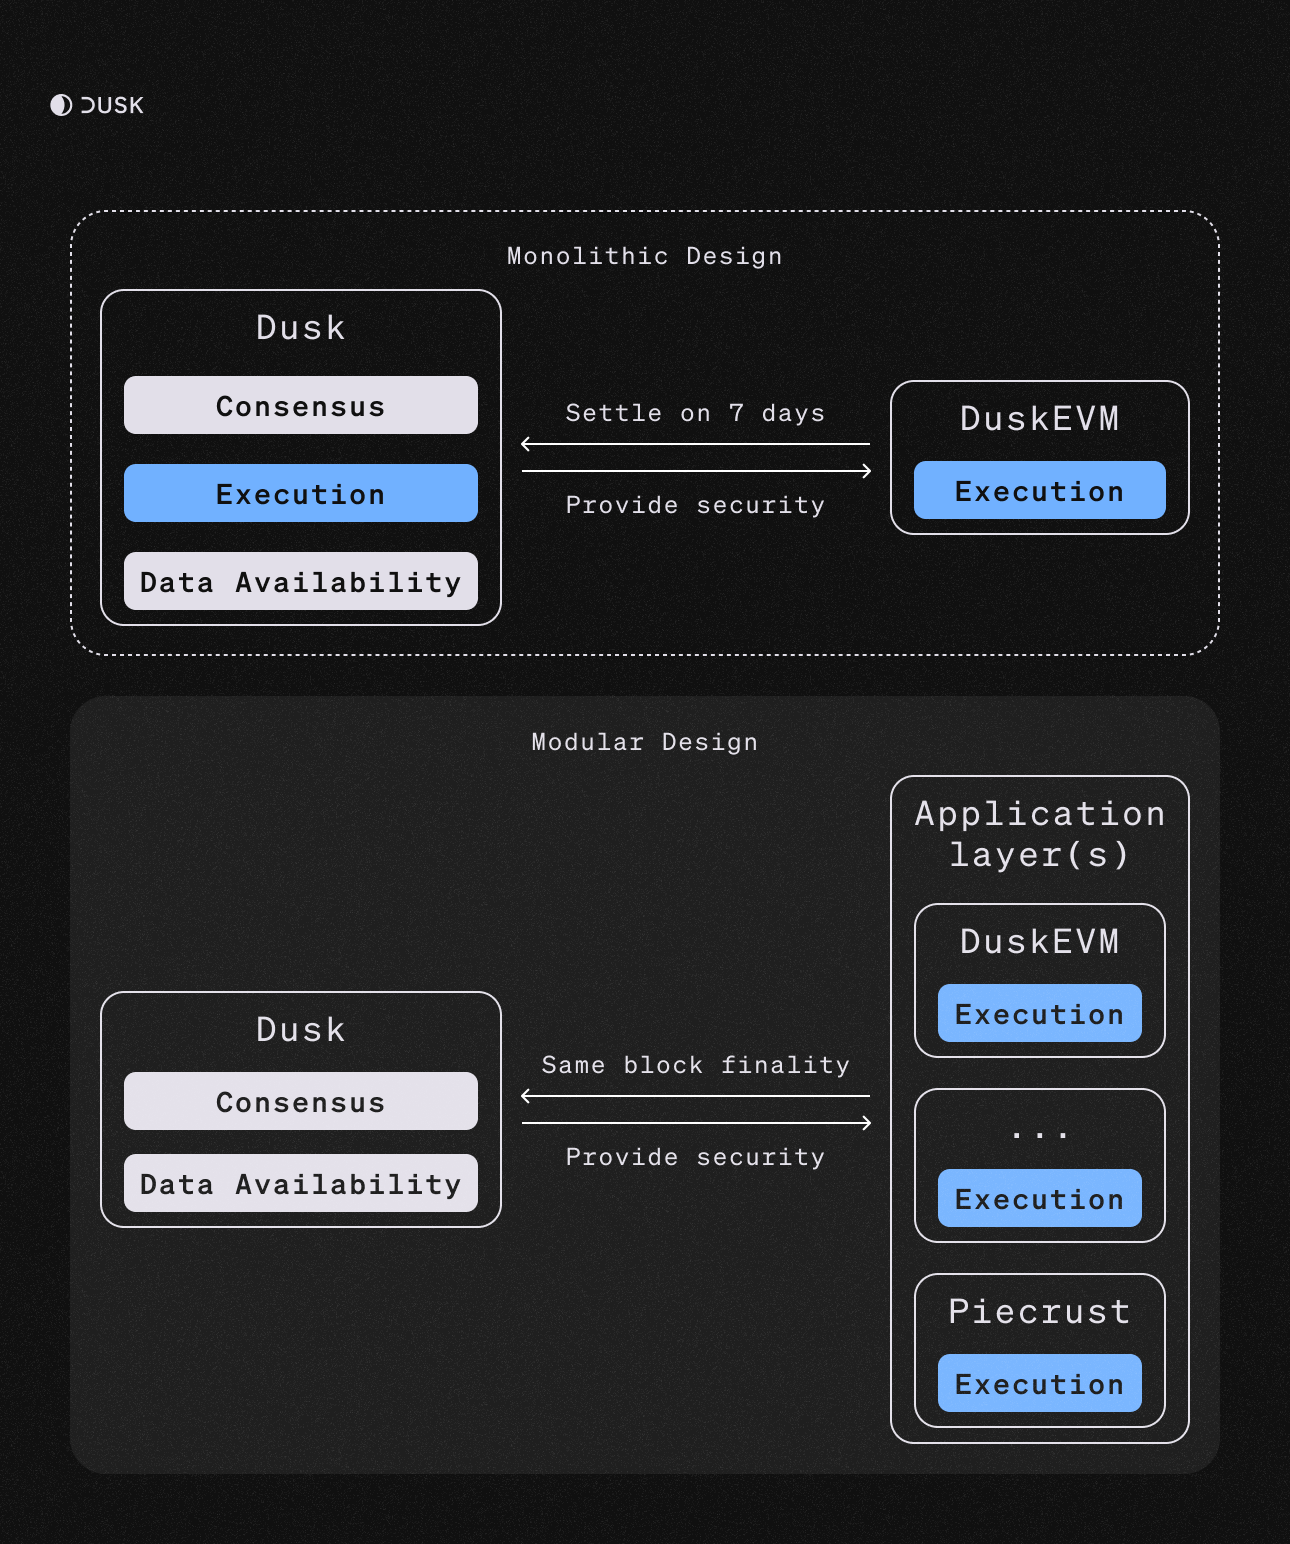
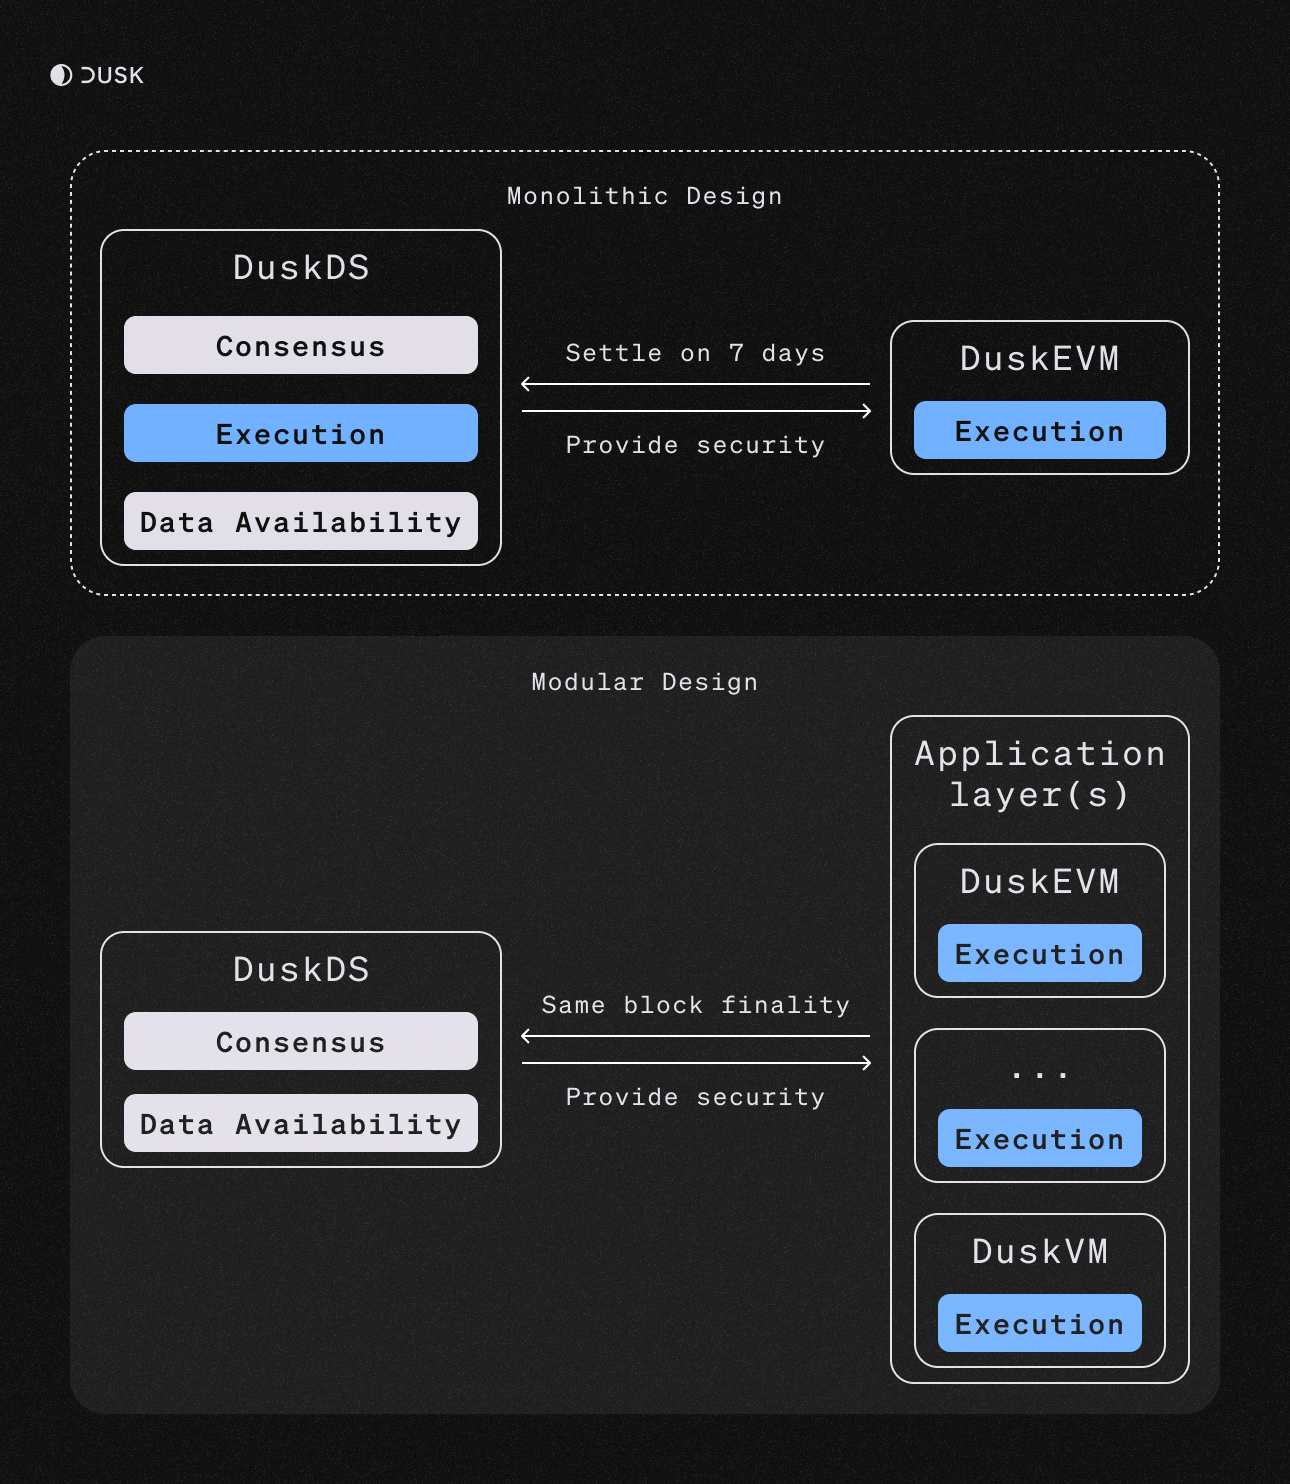
re-organizing content

diff --git a/src/sidebars/defaultSidebar.js b/src/sidebars/defaultSidebar.js
@@ -7,6 +7,7 @@ const defaultSidebar = [
       { label: "Native Issuance", link: "learn/tokenization-comparison" },
       { label: "Core Values", link: "learn/core-values" },
       { label: "Core Components", link: "learn/core-components" },
+      { label: "Cryptography", link: "learn/cryptography" },
       { label: "Tokenomics", link: "learn/tokenomics" },
       { label: "Stake Abstraction", link: "learn/hyperstaking" },
       { label: "Get involved & Community", link: "learn/community" },

diff --git a/src/content/docs/learn/core-components.md b/src/content/docs/learn/core-components.md
@@ -3,11 +3,17 @@ title: Core Components
 description: Introduction to the core components that power Dusk.
 ---
 
-Dusk is built on a foundation of custom-developed tools and components, specifically designed to meet [institutional standards](/learn/tokenization-comparison#meeting-institutional-standards) for privacy, regulatory compliance, and secure interactions with regulated assets. These components enable Dusk to support not only the tokenization of real-world assets (RWAs) but also [native issuance](/learn/tokenization-comparison#native-issuance).
+Dusk is built with a modular architecture, leveraging the  tools and components, specifically designed to meet [institutional standards](/learn/tokenization-comparison#meeting-institutional-standards) for privacy, regulatory compliance, and secure interactions with regulated assets. These components enable Dusk to support not only the tokenization of real-world assets (RWAs) but also [native issuance](/learn/tokenization-comparison#native-issuance).
 
 What sets Dusk apart from other blockchains is its tailor-made architecture, driven by continuous cryptographic research to ensure compliance, privacy, and robust network security, providing a reliable foundation to be a **Decentralized Market Infrastructure** (DeMI).
 
-## DuskDS: Settlement and Data Availability
+## DuskDS
+
+DuskDS is the settlement, consensus, and data availability layer at the foundation of the Dusk architecture. It provides finality, security, and native bridging for all execution environments built on top, including DuskEVM and DuskVM. By modularizing the protocol stack, DuskDS is built to meet institutional demands for compliance, privacy, and performance.
+
+DuskDS includes Rusk (the node implementation) which is powered by Succinct Attestation (PoS-based consensus), Kadcast (P2P networking layer), and the Transfer and Stake Genesis contracts. Together, these elements form a secure, compliant, and composable environment for regulated financial applications
+
+Through its dual transaction models (Phoenix and Moonlight), it provides a secure settlement and data availability layer for compliant execution environments (such as DuskEVM and DuskVM). For seamless, trustless transfers between execution layers,  DuskDS exposes a native bridge.
 
 ### Rusk
 
@@ -15,7 +21,7 @@ What sets Dusk apart from other blockchains is its tailor-made architecture, dri
 
 <a href="https://github.com/dusk-network/rusk/" target="_blank">Deep dive into Rusk implementation</a>
 
-### Consensus: Succinct Attestation
+### Succinct Attestation
 
 [Succinct Attestation](/learn/deep-dive/succinct-attestation) (SA) is the unique **proof-of-stake** (PoS) consensus algorithm at the core of Dusk. It uses a committee-based approach where stakers, called provisioners, participate in generating, validating and ratifying blocks. Provisioners are randomly selected based on their stake.
 
@@ -28,17 +34,7 @@ Blocks are added to the blockchain if they receive enough votes. The Determinist
 
 [Deep dive into Succinct Attestation](/learn/deep-dive/succinct-attestation)
 
-## Execution Layers
-
-### Dusk VM
-
-[Dusk VM](/learn/deep-dive/dusk-vm) is a highly optimized <a href="https://en.wikipedia.org/wiki/Virtual_machine#Process_virtual_machines" target="_blank">virtual machine</a> built around Wasmtime, a WASM runtime. It is a ZK-friendly virtual machine, enabling the development and execution of privacy-focused smart contracts and applications. 
-
-Dusk VM is fundamentally different from many blockchain VMs in that it not only executes WASM and is able to natively support ZK operations like SNARK verifications, but it also has a completely different way in which it handles memory.
-
-[Deep dive into Dusk VM](/learn/deep-dive/dusk-vm)
-
-## Network Layer: Kadcast
+### Network Layer: Kadcast
 
 <a href="https://github.com/dusk-network/kadcast/blob/main/README.md" target="_blank">Kadcast</a> is an innovative peer-to-peer protocol used by Dusk to optimize message exchanges between nodes. Unlike the traditional Gossip protocols used by many blockchain protocols, which broadcasts messages to a random set of nodes, Kadcast uses a structured overlay to direct message flow. This drastically reduces network bandwidth and makes latency much more predictable, and at the same time lower compared to Gossip protocols.
 
@@ -66,34 +62,33 @@ The [Transfer Contract](/learn/deep-dive/transaction_models/transactions) is res
 
 Transactions in DuskDS are managed by the Transfer Contract. The Transfer Contract oversees the handling of both transparent and obfuscated transactions within the network.
 
-The Transfer Contract supports **both** a [UTXO](/learn/deep-dive/transaction_models/tx-models#utxos) and [account-based](/learn/deep-dive/transaction_models/tx-models#account-model) model through [Phoenix](/learn/deep-dive/transaction_models/tx-models#phoenix) and [Moonlight](/learn/deep-dive/transaction_models/tx-models) to handle transfers of the native currency, gas payments, and serve as a contract execution entry point.
+The Transfer Contract supports both a [UTXO](/learn/deep-dive/transaction_models/tx-models#utxos) and [account-based](/learn/deep-dive/transaction_models/tx-models#account-model) model through [Phoenix](/learn/deep-dive/transaction_models/tx-models#phoenix) and [Moonlight](/learn/deep-dive/transaction_models/tx-models) to handle transfers of the native currency, gas payments, and serve as a contract execution entry point.
 
 [Deep dive into the Transfer Contract](/learn/deep-dive/transaction_models/transactions)
 
-## Application Layer: DuskVM and Dusk EVM execution environments
+## Execution environments
 
-### Dusk VM
+The application layer of Dusk is designed to support multiple specialized execution environments, each optimized for distinct use cases (including FHE for confidential transactions to full EVM equivalency). These environments sit atop DuskDS and inherit its secure, compliant settlement guarantees. By separating execution from settlement, Dusk enables high-performance computation without compromising on regulatory alignment or composability.
 
+### Dusk VM
 [Dusk VM](/learn/deep-dive/dusk-vm) is a highly optimized <a href="https://en.wikipedia.org/wiki/Virtual_machine#Process_virtual_machines" target="_blank">virtual machine</a> built around Wasmtime, a WASM runtime. It is a ZK-friendly virtual machine, enabling the development and execution of privacy-focused smart contracts and applications. 
 
 Dusk VM is fundamentally different from many blockchain VMs in that it not only executes WASM and is able to natively support ZK operations like SNARK verifications, but it also has a completely different way in which it handles memory.
 
 [Deep dive into Dusk VM](/learn/deep-dive/dusk-vm)
 
-### Dusk EVM
+### Dusk EVM
 [Dusk EVM](/learn/deep-dive/dusk-vm) is a fully EVM-equivalent execution environment. Built on the <a href="https://docs.optimism.io/stack/getting-started" target="_blank">OP Stack</a> with support for <a href="https://www.eip4844.com/" target="_blank">EIP-4844</a> (Proto-Danksharding), it enables developers to deploy smart contracts using standard EVM tooling—while benefiting from DuskDS's regulatory compliant infrastructure.
 
-[Deep dive into Dusk EVM](/learn/deep-dive/dusk-vm)
+[Deep dive into Dusk EVM](/learn/deep-dive/dusk-evm)
 
-## Citadel
 
-![Citadel](../../../assets/citadel.gif)
+## Applications
 
-Citadel is a Self-Sovereign Identity (SSI)/Digital Identity (DI) protocol designed for authenticating with third party services while upholding user privacy. With Citadel it’s possible to anonymously prove identity information, like meeting a certain age threshold or living in a certain jurisdiction, without revealing the exact information or revealing more information than is necessary. Given that Citadel is part of the network, it has wide ranging applications for on-chain activity and realizing compliance in regulated financial markets.
+Applications powered by Dusk provide decentralized market infrastracture (DeMI) for regulated finance. While Zedger and Hedger facilitate secure asset lifecycle management, Citadel enables self-sovereign identity (SSI) with selective disclosure. These applications are designed to meet regulatory standards without compromising on decentralization, privacy, or usability.
 
-[Deep dive into Citadel](/developer/digital-identity/protocol) 
 
-## Zedger & XSC
+## Zedger / Hedger
 
 Zedger is an asset protocol that incorporates a unique hybrid transaction model combining the benefits of both UTXO and account-based transaction models. This model provides the Confidential Security Contract (XSC) functionality necessary for Dusk’s securities-related use-cases among them the full lifecycle management of securities and supporting full regulatory compliance.
 
@@ -101,40 +96,12 @@ Zedger allows for the digital representation, native issuance and management of 
 
 [Deep dive into Zedger](/learn/deep-dive/transaction_models/zedger) 
 
-## Dusk primitives
+Differently from Zedger, which operated directly on Rusk, Hedger runs on DuskEVM leveraging the EVM equivalency of Dusk’s new execution layer. ZK operations in Hedger are handled via precompiled contracts provided by DuskEVM, mirroring the functionality once exposed through host functions in Rusk. This shift enables significantly easier developer access to privacy-preserving logic, while preserving the regulatory guarantees and auditability required for compliant finance.
 
-![Elliptic Curves image](../../../assets/elliptic_curves.png)
+### Citadel
 
-At the foundation of Dusk’s architecture are the cryptographic primitives - BLS12_381, JubJub, Schnorr and Poseidon. These cryptography tools provide the robust security and privacy features of the network. Besides these, we also make use of our own Merkle tree implementation called dusk-merkle, and our own PLONK proving system.
+![Citadel](../../../assets/citadel.gif)
 
-### BLS12_381
+Citadel is a Self-Sovereign Identity (SSI)/Digital Identity (DI) protocol designed for authenticating with third party services while upholding user privacy. With Citadel it’s possible to anonymously prove identity information, like meeting a certain age threshold or living in a certain jurisdiction, without revealing the exact information or revealing more information than is necessary. Given that Citadel is part of the network, it has wide ranging applications for on-chain activity and realizing compliance in regulated financial markets.
 
-BLS12_381 is a pairing-friendly elliptic curve used within Dusk to enable aggregation of signatures, which significantly reduces the amount of data to be stored and transmitted over the network, improving overall efficiency of the blockchain. This curve is especially crucial in the context of zero-knowledge proofs, where it provides the backbone for secure and private transactions.
-
-[Deep dive into BLS](/learn/deep-dive/cryptography/bls) 
-
-### JubJub
-
-JubJub is an elliptic curve specifically designed to enable fast, secure zero-knowledge proofs. This curve is utilized within Dusk for the construction of efficient zk-SNARKs, allowing transactions and contracts to maintain privacy and integrity without the need to reveal underlying data.
-
-### Schnorr Signatures
-
-Schnorr signatures are a type of digital signature scheme. They offer resistance against forgery. In Dusk, Schnorr signatures contribute significantly to securing user transactions and smart contract interactions. They ensure that only valid transactions are processed and added to the blockchain.
-
-### Poseidon
-
-Poseidon is a cryptographic hash function specifically designed for use in zero-knowledge circuits. It is optimized for performance, security and data integrity within Dusk. By producing a unique hash value for every distinct input, it forms the heart of Dusk’s data structures, making it virtually impossible to alter transaction data once it’s included in the blockchain.
-
-[Deep dive into hashing](/learn/deep-dive/cryptography/hashing)
-
-### Dusk-Merkle
-
-Dusk also includes a custom, sparse Merkle tree implementation that is agnostic to the choice of hash function. Merkle trees are a fundamental part of many blockchains, enabling efficient and secure verification of large data structures. The Dusk Merkle tree is designed for flexibility and performance, given it’s used in multiple locations like the stake and transfer contract, and Citadel. 
- 
-### PLONK
-
-PLONK is a versatile proof system developed to facilitate the implementation of zero-knowledge proofs. It forms the core of Dusk’s proof system, allowing efficient and private transactions on the network that are both small in proof size and fast to verify. 
-
-With PLONK, developers can define custom and reusable circuits that can be integrated into Dusk based smart contracts. 
-
-[Deep dive into PlonK](/learn/deep-dive/cryptography/plonk) 
+[Deep dive into Citadel](/developer/digital-identity/protocol) 

diff --git a/src/content/docs/learn/cryptography.md b/src/content/docs/learn/cryptography.md
@@ -1,0 +1,44 @@
+---
+title: Cryptography
+description: An overview of the cryptographic primitives used in Dusk.
+---
+
+At the core of Dusk’s security model is a carefully curated suite of cryptographic primitives, many of which Dusk has helped pioneer. From the first Rust implementation of PLONK to research on PlonKup, FORT, and both the Reinforced Concrete hash and Poseidon Hash, Dusk has been pushing the state of the art to combine institutional-grade privacy with verifiable performance. Other building blocks such as BLS12-381, JubJub, Schnorr, sparse Merkle tree, and the PLONK proving system, form the low-level toolkit that powers Dusk.
+
+## Dusk primitives
+
+![Elliptic Curves image](../../../assets/elliptic_curves.png)
+
+At the foundation of Dusk’s architecture are the cryptographic primitives - BLS12_381, JubJub, Schnorr and Poseidon. These cryptography tools provide the robust security and privacy features of the network. Besides these, we also make use of our own Merkle tree implementation called dusk-merkle, and our own PLONK proving system.
+
+### BLS12_381
+
+BLS12_381 is a pairing-friendly elliptic curve used within Dusk to enable aggregation of signatures, which significantly reduces the amount of data to be stored and transmitted over the network, improving overall efficiency of the blockchain. This curve is especially crucial in the context of zero-knowledge proofs, where it provides the backbone for secure and private transactions.
+
+[Deep dive into BLS](/learn/deep-dive/cryptography/bls) 
+
+### JubJub
+
+JubJub is an elliptic curve specifically designed to enable fast, secure zero-knowledge proofs. This curve is utilized within Dusk for the construction of efficient zk-SNARKs, allowing transactions and contracts to maintain privacy and integrity without the need to reveal underlying data.
+
+### Schnorr Signatures
+
+Schnorr signatures are a type of digital signature scheme. They offer resistance against forgery. In Dusk, Schnorr signatures contribute significantly to securing user transactions and smart contract interactions. They ensure that only valid transactions are processed and added to the blockchain.
+
+### Poseidon
+
+Poseidon is a cryptographic hash function specifically designed for use in zero-knowledge circuits. It is optimized for performance, security and data integrity within Dusk. By producing a unique hash value for every distinct input, it forms the heart of Dusk’s data structures, making it virtually impossible to alter transaction data once it’s included in the blockchain.
+
+[Deep dive into hashing](/learn/deep-dive/cryptography/hashing)
+
+### Dusk-Merkle
+
+Dusk also includes a custom, sparse Merkle tree implementation that is agnostic to the choice of hash function. Merkle trees are a fundamental part of many blockchains, enabling efficient and secure verification of large data structures. The Dusk Merkle tree is designed for flexibility and performance, given it’s used in multiple locations like the stake and transfer contract, and Citadel. 
+ 
+### PLONK
+
+PLONK is a versatile proof system developed to facilitate the implementation of zero-knowledge proofs. It forms the core of Dusk’s proof system, allowing efficient and private transactions on the network that are both small in proof size and fast to verify. 
+
+With PLONK, developers can define custom and reusable circuits that can be integrated into Dusk based smart contracts. 
+
+[Deep dive into PlonK](/learn/deep-dive/cryptography/plonk) 

diff --git a/src/content/docs/learn/glossary.md b/src/content/docs/learn/glossary.md
@@ -33,13 +33,16 @@ The native cryptocurrency of Dusk. It is used to pay for transaction fees and st
 
 [Dusk VM](/learn/deep-dive/dusk-vm) is general purpose virtual machine developed by Dusk that runs WASM smart contracts and manages their memory.
 
+#### Hedger
+Hedger is the evolution of Zedger, built on DuskEVM and powered by fully homomorphic encryption for enhanced privacy.
+
 #### Hyperstaking
 
 Hyperstaking is a feature that allows smart contracts to manage stakes with custom logic. Similar to "Account Abstraction," it enables use cases like privacy-preserving staking, affiliate programs, delegation, liquid staking, and yield boosting. Staking operations are initiated via a provisioner key, with signature verification only required for the initial stake, offering flexibility and innovation in staking models.
 
 #### Kadcast
 
-[Kadcast](/learn/core-components#networking-kadcast) is a structured information propagation protocol used by Dusk, characterized by a direct correlation between network performance, latency, and the number of nodes.
+[Kadcast](/learn/core-components#network-layer-kadcast) is a structured information propagation protocol used by Dusk, characterized by a direct correlation between network performance, latency, and the number of nodes.
 
 #### Lightspeed
 
@@ -67,7 +70,7 @@ A shielded account is based on the [Phoenix](#phoenix) UTXO transaction model an
 
 #### Profile
 
-A [profile](/learn/wallet-terminology#profile-and-accounts) is a pairing of a Public Account ([Moonlight](#moonlight) and a Shielded Account ([Phoenix](#phoenix) derived from a single mnemonic. Profiles are created in pairs to allow for both public and privacy-preserving transactions.
+A [profile](/learn/wallet-terminology#profile-and-accounts) is a pairing of a Public Account [Moonlight](#moonlight) and a Shielded Account ([Phoenix](#phoenix) derived from a single mnemonic. Profiles are created in pairs to allow for both public and privacy-preserving transactions.
 
 #### RUES
 
@@ -95,7 +98,7 @@ The [Web Wallet](https://apps.dusk.network/wallet/) is the official web-based wa
 
 #### Zedger
 
-[Zedger](/learn/core-components#zedger--xsc) is a Dusk-based protocol combining UTXO and account models for the private, compliant management of securities. Zedger allows issuers to digitally represent, issue, and trade securities like stocks and bonds while ensuring regulatory compliance.
+[Zedger](/learn/core-components#zedger--hedger) is a Dusk-based protocol combining UTXO and account models for the private, compliant management of securities. Zedger allows issuers to digitally represent, issue, and trade securities like stocks and bonds while ensuring regulatory compliance.
 
 ## Definitions
 

diff --git a/src/content/docs/learn/deep-dive/dusk-vm.md b/src/content/docs/learn/deep-dive/dusk-vm.md
@@ -1,5 +1,5 @@
 ---
-title: Dusk VM and Dusk Core
+title: Dusk VM
 description: Learn about Dusk VM, the wasmtime VM that efficiently executes smart contracts on Dusk.
 
 ---
